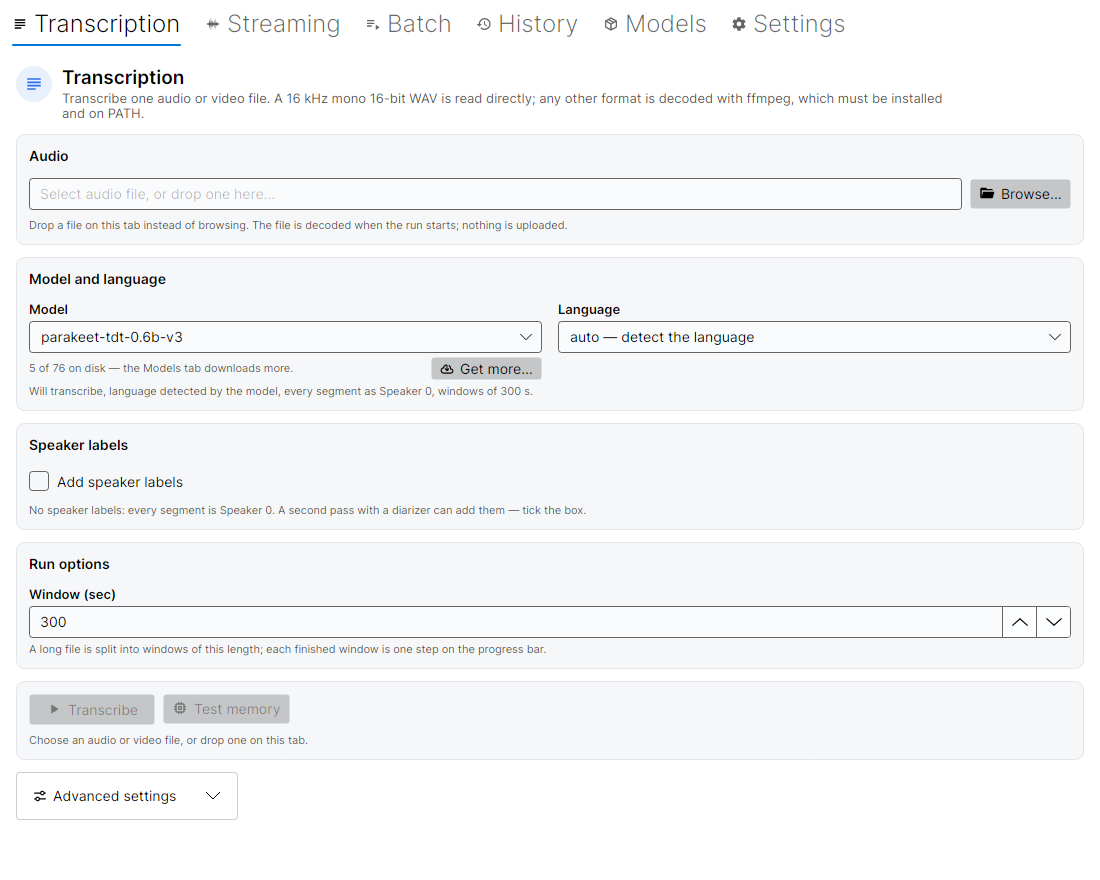
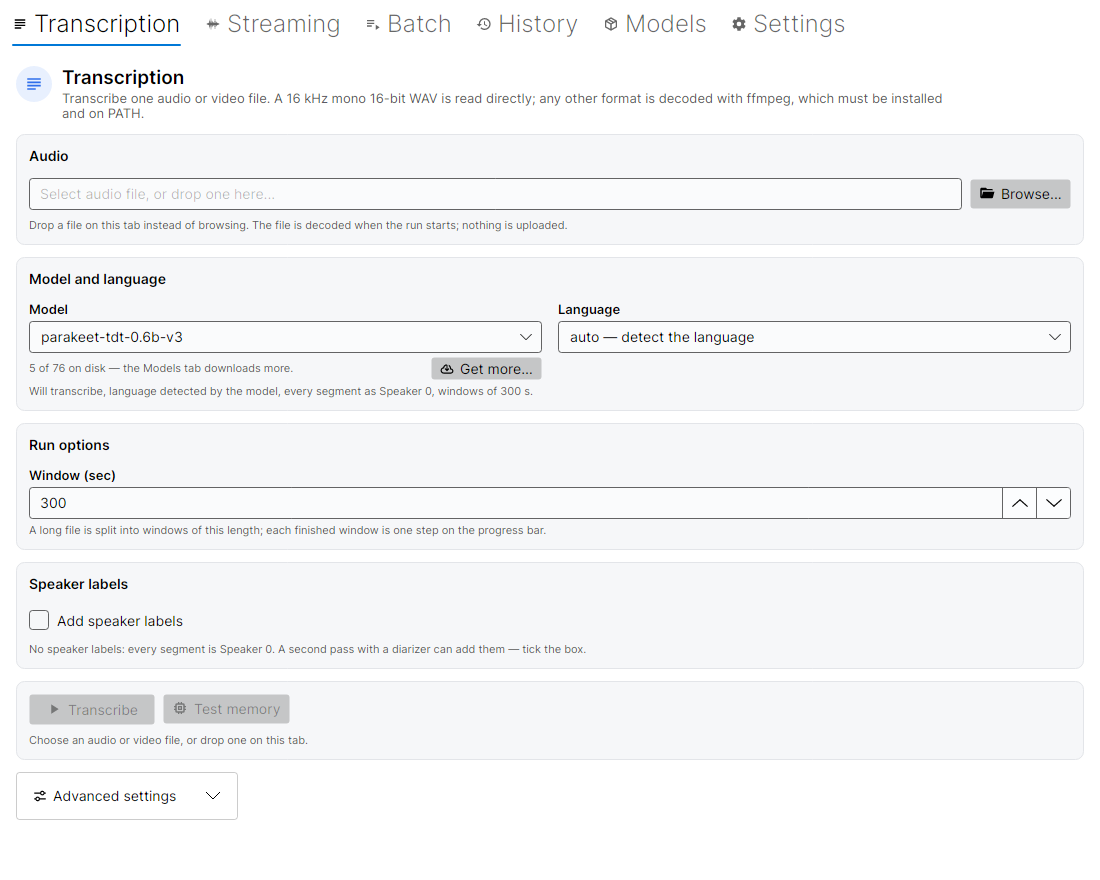
fix(ui): put speaker labels after the transcript options
A dedicated diarizer is a second pass after the transcriber, so the choice now
sits after the transcript options and the docs say why. A model that diarizes
itself still does it in the same pass; the plan line names the order in both
cases. The screenshot is regenerated.

Changed region(s): [[0.0309, 0.4909, 0.5255, 0.767], [0.9273, 0.5523, 0.9582, 0.583]]

diff --git a/docs/ui.md b/docs/ui.md
@@ -109,11 +109,13 @@ yet, or a settings file that cannot be read, the first alias is selected as befo
 
 Pick a file, a model and the decoder settings, then run.
 
-The form is ordered as the decisions are: **Audio**, **Model and language**, **Speaker
-labels**, **Run options**, then one **Advanced settings** disclosure for the decoder tuning
-that has a working default. One line under the model restates what the run will do (`Will
-transcribe, language fr, every segment as Speaker 0, windows of 300 s`), so the pickers and the
-result cannot disagree after the fact. The primary button is disabled until
+The form is ordered as the decisions are: **Audio**, **Model and language**, **Run options**,
+**Speaker labels**, then one **Advanced settings** disclosure for the decoder tuning that has
+a working default. Speaker labels come after the transcript options because they are
+post-processing: a dedicated diarizer runs as a second pass over the same audio, after the
+transcriber; a model that diarizes itself does it in the same pass. One line under the model
+restates what the run will do (`Will transcribe, language fr, every segment as Speaker 0,
+windows of 300 s`), so the pickers and the result cannot disagree after the fact. The primary button is disabled until
 a model is on disk, a file is selected and still exists, and a requested speaker attribution can
 actually be produced; when it is disabled, the line under it names the missing piece and where
 to get it instead of leaving a dead button.

diff --git a/CHANGELOG.md b/CHANGELOG.md
@@ -11,9 +11,11 @@ the wrapper (`TranscribeCppSharp`) follows SemVer for its own C# API, while
 
 ### UI: the Transcription tab says what it will do, and one intent for speaker labels
 
-The tab is now a short ordered form — **Audio**, **Model and language**, **Speaker labels**,
-**Run options**, then the primary action — with the decoder tuning behind one collapsed
-**Advanced settings** disclosure. The primary button sits above that disclosure so it is on
+The tab is now a short ordered form — **Audio**, **Model and language**, **Run options**,
+**Speaker labels**, then the primary action — with the decoder tuning behind one collapsed
+**Advanced settings** disclosure. Speaker labels sit after the transcript options because a
+dedicated diarizer is a second pass after the transcriber; a model that diarizes itself does it
+in the same pass. The primary button sits above that disclosure so it is on
 screen without scrolling. A disabled button is no longer a dead end: the line under it names
 the missing piece (no model, no file, a file that has since been deleted, a capability check
 still running, or a speaker request that cannot be honoured) and where to get it. A summary
